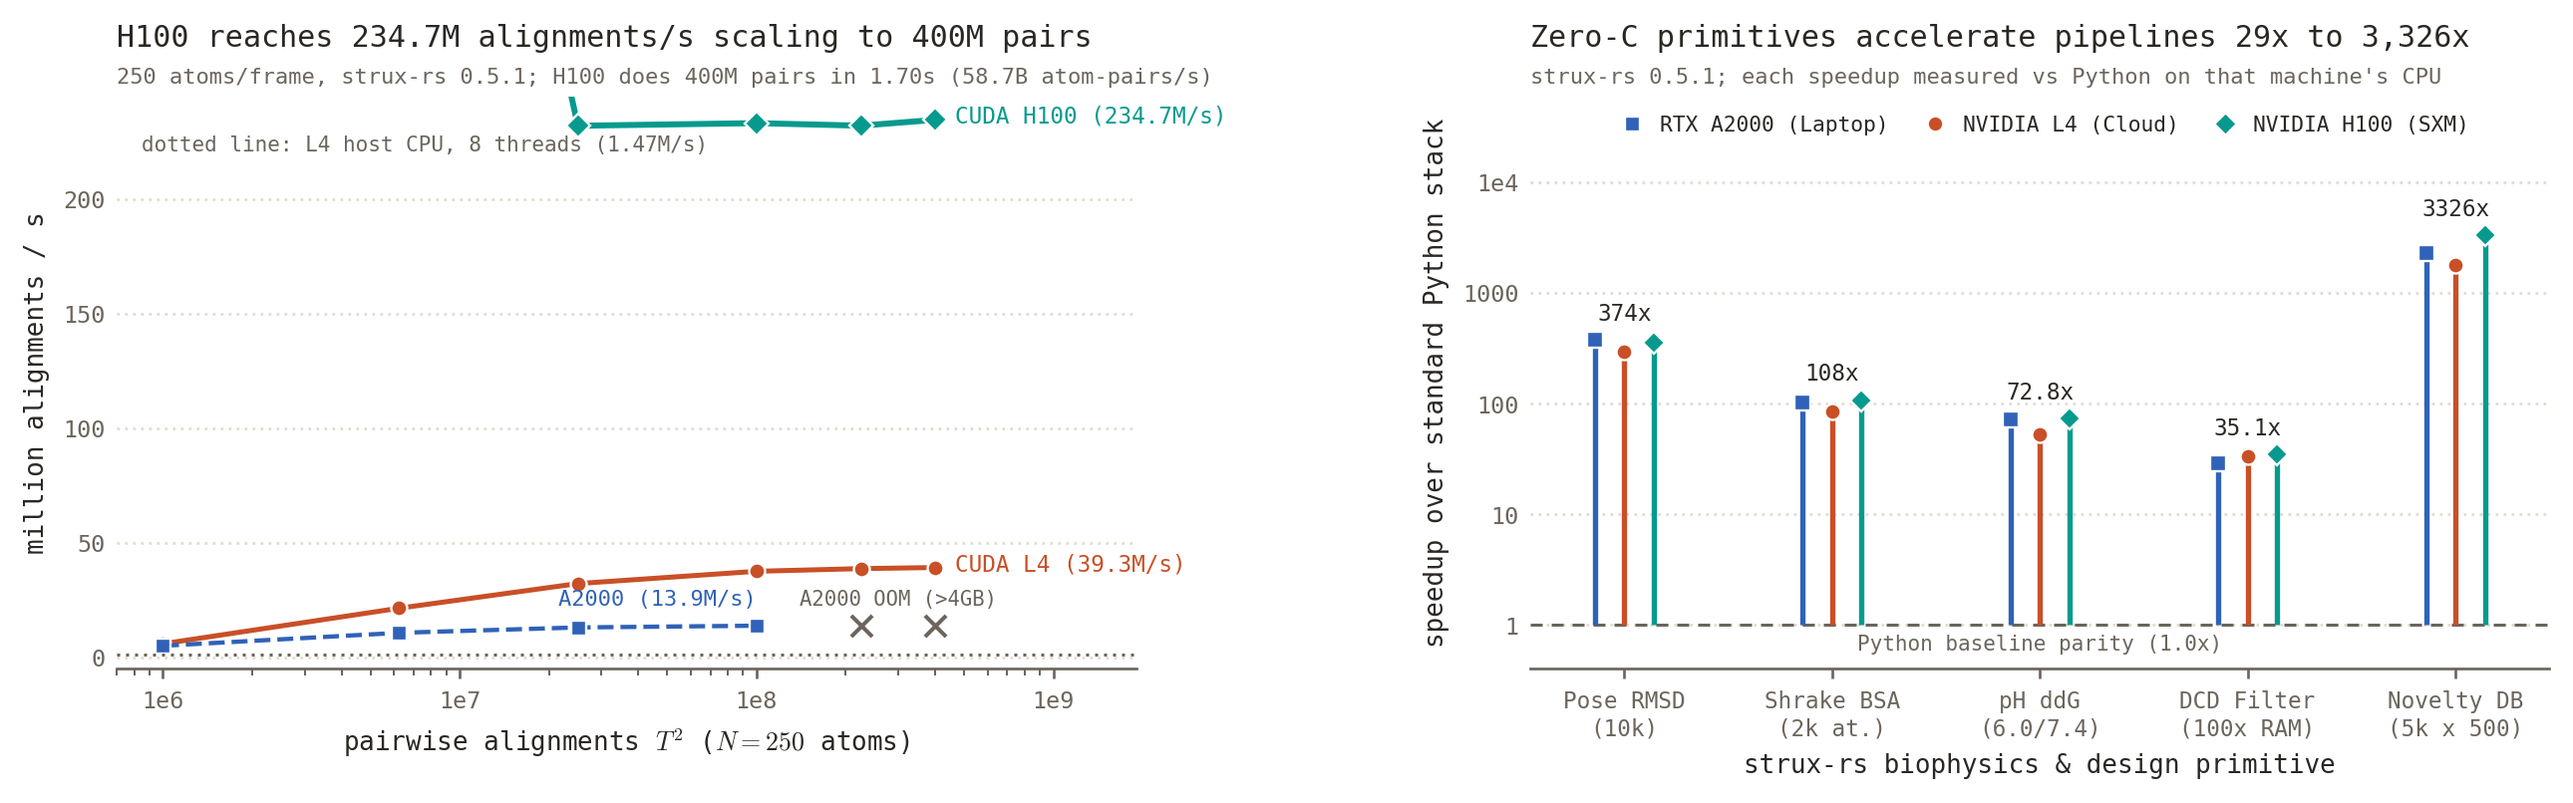
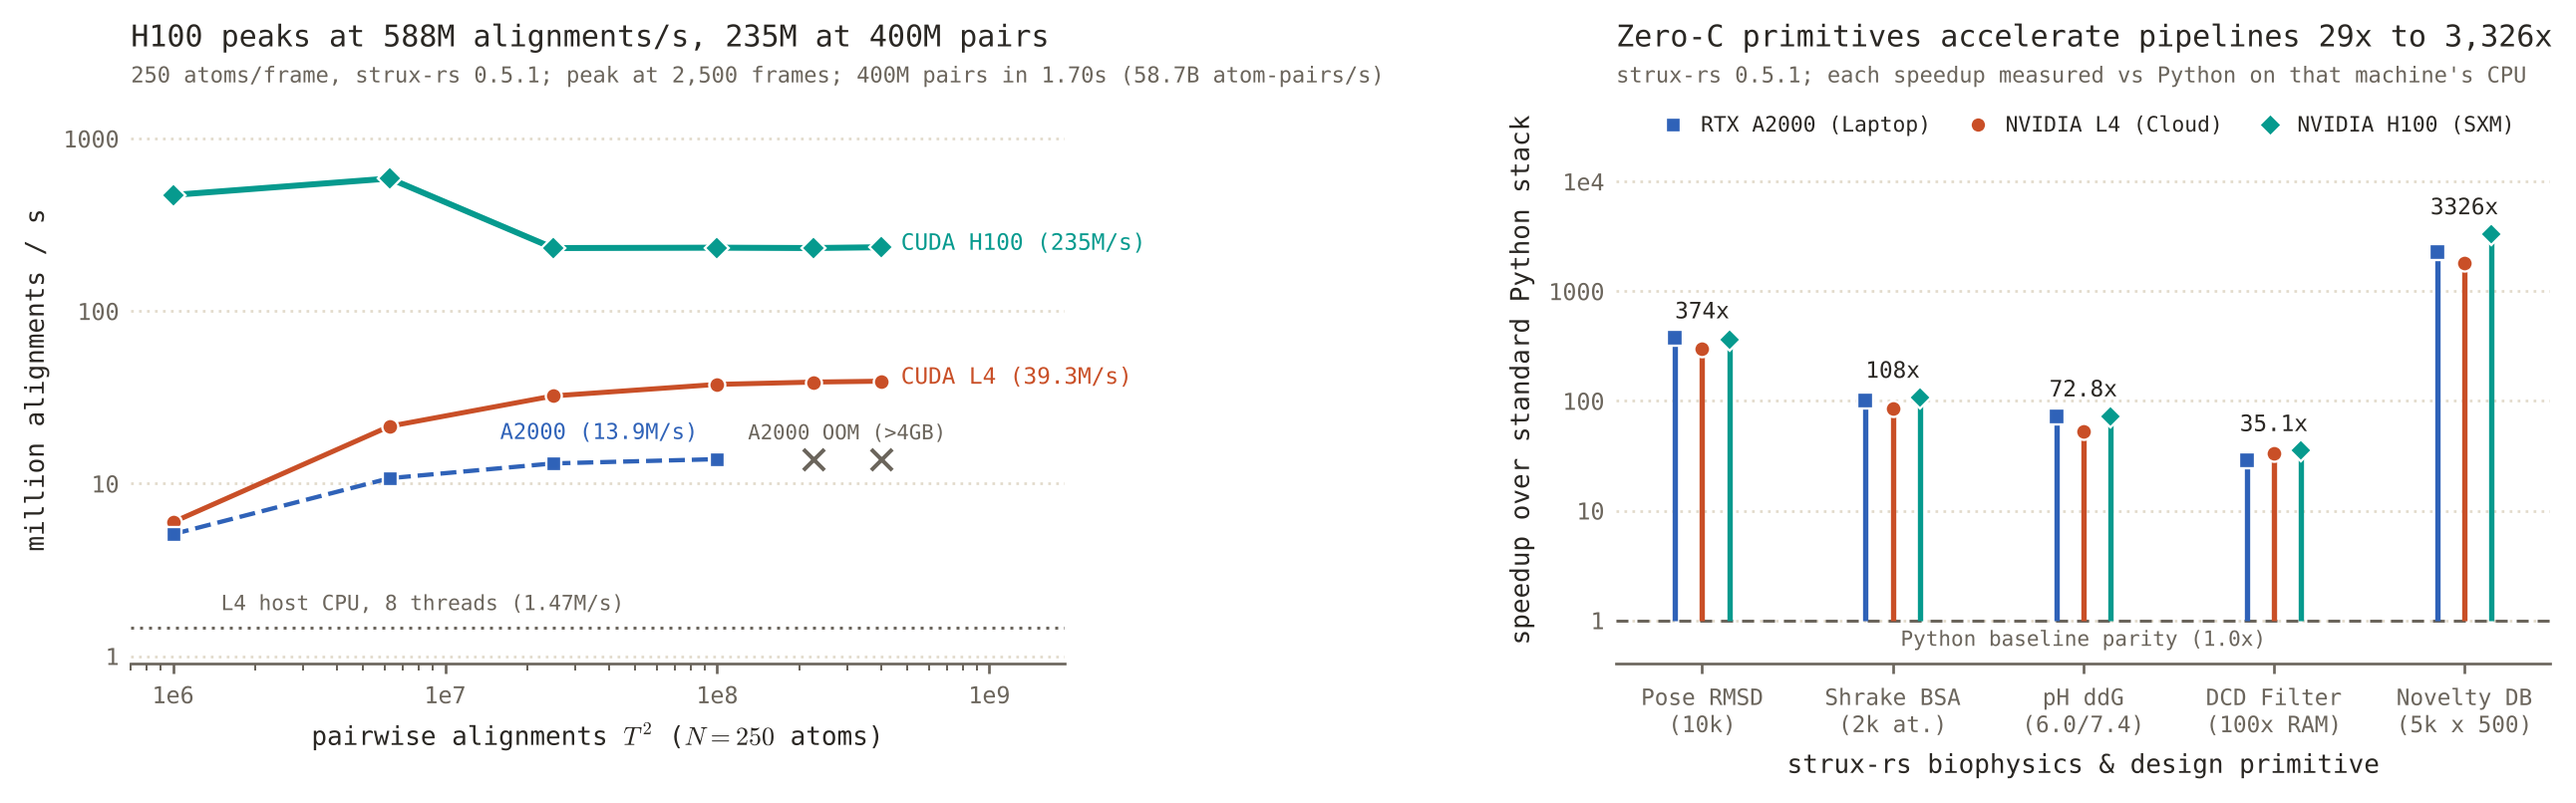
0.5.2: record build provenance, fix clipped GPU scaling plot, sync README
The cached CUDA engine cut the 1,000x1,000 H100 call from 150.3 ms to 2.1 ms, which
pushed the throughput curve past the plot's hardcoded 245 M/s ceiling and clipped it.

- plot_all_hardware.py: log y axis with limits from the data; title reports the peak
  (588 M/s) and the 400M-pair figure separately, since throughput is no longer
  monotonic; labels offset multiplicatively; subtitle shows version and commit
- run_standardized_l4_benchmarks.py: record git_commit, because __version__ comes from
  Cargo.toml and cannot distinguish a local build from the published wheel
- README: regenerate the H100 column from the results JSON, and note that it was
  measured with the cached engine while the L4 and A2000 columns predate it
- version 0.5.2 so the caching is reproducible from PyPI

diff --git a/benchmarks/plot_all_hardware.py b/benchmarks/plot_all_hardware.py
@@ -111,6 +111,12 @@ def main():
     l4_data = json.loads(l4_path.read_text(encoding="utf-8"))
     a2000_data = json.loads(a2000_path.read_text(encoding="utf-8"))
 
+    def build_label(data):
+        """Version plus commit, since __version__ alone cannot distinguish a local build."""
+        ver = data.get("strux_rs_version", "unknown")
+        commit = data.get("git_commit")
+        return f"{ver} ({commit})" if commit and commit != "unknown" else ver
+
     h100_b = {b["benchmark"]: b for b in h100_data.get("benchmarks", [])}
     l4_b = {b["benchmark"]: b for b in l4_data.get("benchmarks", [])}
     a2000_b = {b["benchmark"]: b for b in a2000_data.get("benchmarks", [])}
@@ -168,31 +174,37 @@ def main():
     ax1.set_xscale("log")
     plain_log_axis(ax1, "x")
     ax1.set_xlim(7e5, 1.9e9)
-    ax1.set_ylim(-5.0, 245.0)
+    # Log y: the three tiers plus the CPU reference span 1.5 to ~590 M alignments/s,
+    # which a linear axis collapses onto the baseline.
+    ax1.set_yscale("log")
+    plain_log_axis(ax1, "y")
+    ax1.set_ylim(0.9, max(rate_h100.max(), rate_l4.max()) * 3.0)
     ax1.set_xlabel("pairwise alignments $T^2$ ($N=250$ atoms)")
     ax1.set_ylabel("million alignments / s")
 
-    # End labels
-    end_label(ax1, pairs_full[-1], rate_h100[-1], f"CUDA H100 ({rate_h100[-1]:.1f}M/s)", dx=6, dy=1, color=JADE)
+    # End labels, offset multiplicatively because the y axis is logarithmic
+    end_label(ax1, pairs_full[-1], rate_h100[-1], f"CUDA H100 ({rate_h100[-1]:.0f}M/s)", dx=6, dy=1, color=JADE)
     end_label(ax1, pairs_full[-1], rate_l4[-1], f"CUDA L4 ({rate_l4[-1]:.1f}M/s)", dx=6, dy=1, color=RUST)
-    # A2000 label above its last point (left of it), OOM label above the x markers, CPU label bottom right
-    ax1.text(pairs_a2000[-1], rate_a2000[-1] + 7.0, f"A2000 ({rate_a2000[-1]:.1f}M/s)",
+    ax1.text(pairs_a2000[-1] * 0.85, rate_a2000[-1] * 1.22, f"A2000 ({rate_a2000[-1]:.1f}M/s)",
              fontsize=6.6, color=COBALT, ha="right", va="bottom")
     cpu_threads = l4_data["hardware"]["cpu_threads"]
-    ax1.text(8.5e5, 228.0, f"dotted line: L4 host CPU, {cpu_threads} threads ({cpu_rate:.2f}M/s)",
-             fontsize=6.3, color=INK2, ha="left", va="top")
+    ax1.text(1.5e6, cpu_rate * 1.18, f"L4 host CPU, {cpu_threads} threads ({cpu_rate:.2f}M/s)",
+             fontsize=6.3, color=INK2, ha="left", va="bottom")
 
     # OOM marker for A2000
     ax1.scatter([2.25e8, 4.0e8], [rate_a2000[-1], rate_a2000[-1]], marker="x", color=INK2, s=40, zorder=5, lw=1.2)
-    ax1.text(3.0e8, rate_a2000[-1] + 7.0, "A2000 OOM (>4GB)", fontsize=6.2, color=INK2, ha="center", va="bottom")
+    ax1.text(3.0e8, rate_a2000[-1] * 1.22, "A2000 OOM (>4GB)", fontsize=6.2, color=INK2, ha="center", va="bottom")
 
     total_pairs = pairs_full[-1]
     time_max_h100 = time_h100_sec[-1]
     atom_pairs_rate_h100 = (total_pairs * 250) / time_max_h100 / 1e9
+    peak_h100 = rate_h100.max()
+    peak_frames = int(frames_full[int(rate_h100.argmax())])
     titles(
         ax1,
-        f"H100 reaches {rate_h100[-1]:.1f}M alignments/s scaling to 400M pairs",
-        f"250 atoms/frame, strux-rs {h100_data['strux_rs_version']}; H100 does 400M pairs in {time_max_h100:.2f}s ({atom_pairs_rate_h100:.1f}B atom-pairs/s)",
+        f"H100 peaks at {peak_h100:.0f}M alignments/s, {rate_h100[-1]:.0f}M at 400M pairs",
+        f"250 atoms/frame, strux-rs {build_label(h100_data)}; peak at {peak_frames:,} frames; "
+        f"400M pairs in {time_max_h100:.2f}s ({atom_pairs_rate_h100:.1f}B atom-pairs/s)",
     )
 
     # =========================================================================
@@ -274,7 +286,7 @@ def main():
     titles(
         ax2,
         f"Zero-C primitives accelerate pipelines {min_sp:.0f}x to {max_sp:,.0f}x",
-        f"strux-rs {h100_data['strux_rs_version']}; each speedup measured vs Python on that machine's CPU",
+        f"strux-rs {build_label(h100_data)}; each speedup measured vs Python on that machine's CPU",
     )
 
     fig.tight_layout(w_pad=3.8)

diff --git a/benchmarks/run_standardized_l4_benchmarks.py b/benchmarks/run_standardized_l4_benchmarks.py
@@ -23,6 +23,25 @@ import numpy as np
 import strux_rs
 
 
+def _git_commit() -> str:
+    """Short commit of the repo this script lives in, or 'unknown' outside a checkout."""
+    try:
+        out = subprocess.run(
+            ["git", "-C", str(Path(__file__).resolve().parent), "rev-parse", "--short", "HEAD"],
+            capture_output=True, text=True, timeout=10,
+        )
+        if out.returncode != 0:
+            return "unknown"
+        commit = out.stdout.strip()
+        dirty = subprocess.run(
+            ["git", "-C", str(Path(__file__).resolve().parent), "status", "--porcelain"],
+            capture_output=True, text=True, timeout=10,
+        )
+        return commit + ("-dirty" if dirty.stdout.strip() else "")
+    except Exception:
+        return "unknown"
+
+
 def get_hardware_provenance() -> dict:
     info = {
         "hostname": socket.gethostname(),
@@ -718,6 +737,9 @@ def main():
             "timestamp_utc": time.strftime("%Y-%m-%dT%H:%M:%SZ", time.gmtime()),
             "strux_rs_version": getattr(strux_rs, "__version__", "unknown"),
             "strux_rs_file": getattr(strux_rs, "__file__", "unknown"),
+            # __version__ comes from Cargo.toml, so a local build of unreleased code reports the
+            # same string as the published wheel. Record the commit so a run can be traced to a build.
+            "git_commit": _git_commit(),
             "dataset_source": dataset_source,
             "hardware": hw,
             "benchmarks": records,

diff --git a/README.md b/README.md
@@ -6,7 +6,7 @@
 
 [![Language](https://img.shields.io/badge/Language-Rust-orange.svg)]()
 [![Python Bindings](https://img.shields.io/badge/Python-PyO3_/_Maturin-blue.svg)]()
-[![PyPI Package](https://img.shields.io/badge/PyPI-v0.5.1-blue.svg)](https://pypi.org/project/strux-rs/)
+[![PyPI Package](https://img.shields.io/badge/PyPI-v0.5.2-blue.svg)](https://pypi.org/project/strux-rs/)
 [![CUDA](https://img.shields.io/badge/CUDA-12.x_QCP-76b900.svg)]()
 [![License](https://img.shields.io/badge/License-MIT-green.svg)]()
 
@@ -152,16 +152,18 @@ Head-to-head comparison across standard computational biology packages on identi
 #### B. Cross-Hardware Scaling: H100 (80 GB) vs. Cloud L4 (24 GB) vs. Laptop RTX A2000 (4 GB)
 | Workload & System Scale | Laptop RTX A2000 (4 GB, 35W) | Cloud NVIDIA L4 (24 GB, 72W) | Data Center H100 (80 GB, 700W) | Max Throughput / Speedup |
 | :--- | :---: | :---: | :---: | :---: |
-| **1,000 × 1,000 frames** (1.0M pairs) | 196.4 ms | 167.2 ms | **150.3 ms** | 1.66 B atom-pairs/s |
-| **5,000 × 5,000 frames** (25.0M pairs) | 1,908.6 ms | 775.1 ms | **258.1 ms** | 24.22 B atom-pairs/s |
-| **10,000 × 10,000 frames** (100.0M pairs) | 7,213.3 ms (7.21s) | 2,658.7 ms (2.66s) | **583.7 ms (0.58s)** | 42.83 B atom-pairs/s (171.3M align/s) |
-| **20,000 × 20,000 frames** (400.0M pairs) | *OOM (>4 GB VRAM)* | 10,188.1 ms (10.19s) | **1,882.6 ms (1.88s)** | **53.12 B atom-pairs/s (212.5M align/s)** |
-| **5,000-Frame AMS Feedback Loop** | 10,618.3 ms | 7,938.1 ms | **4,821.7 ms** | Complete ensemble analysis in 4.82s |
-| **Target-Anchored Pose + scRMSD** (10,000 designs) | 4.28 ms | 8.24 ms | **2.85 ms** | **348.2× vs NumPy SVD** (H100 host CPU) |
-| **Shrake-Rupley BSA** (2,048 atoms, 96 points) | 1.39 ms | 9.25 ms | **1.07 ms** | **109.3× vs pure Python** |
-| **Sliding 15-mer Novelty DB** (5k queries × 500 refs) | 9,362.3 ms | 7,461.3 ms | **5,628.9 ms** | **3,449.1× vs Python** (5.6s vs ~5.4 hours) |
+| **1,000 × 1,000 frames** (1.0M pairs) | 196.4 ms | 167.2 ms | **2.1 ms** | 117.9 B atom-pairs/s (471M align/s) |
+| **5,000 × 5,000 frames** (25.0M pairs) | 1,908.6 ms | 775.1 ms | **107.7 ms** | 58.0 B atom-pairs/s |
+| **10,000 × 10,000 frames** (100.0M pairs) | 7,213.3 ms (7.21s) | 2,658.7 ms (2.66s) | **428.7 ms (0.43s)** | 58.3 B atom-pairs/s (233M align/s) |
+| **20,000 × 20,000 frames** (400.0M pairs) | *OOM (>4 GB VRAM)* | 10,188.1 ms (10.19s) | **1,704.3 ms (1.70s)** | **58.7 B atom-pairs/s (235M align/s)** |
+| **5,000-Frame AMS Feedback Loop** | 10,618.3 ms | 7,938.1 ms | **4,698.5 ms** | Complete ensemble analysis in 4.70s |
+| **Target-Anchored Pose + scRMSD** (10,000 designs) | 4.28 ms | 8.24 ms | **2.95 ms** | **357.9× vs NumPy SVD** (H100 host CPU) |
+| **Shrake-Rupley BSA** (2,048 atoms, 96 points) | 1.39 ms | 9.25 ms | **1.14 ms** | **107.6× vs pure Python** |
+| **Sliding 15-mer Novelty DB** (5k queries × 500 refs) | 9,362.3 ms | 7,461.3 ms | **5,809.1 ms** | **3,325.9× vs Python** (5.8s vs ~5.4 hours) |
 
-![Hardware Scaling Comparison](benchmarks/hardware_scaling_comparison.png?v=0.5.1b)
+The H100 column was measured after the CUDA engine became a process-wide singleton, which removes the ~150 ms driver context and PTX JIT cost that every `cuda_*` call previously paid. The L4 and RTX A2000 columns predate that change (released 0.5.1), so the small-matrix gap between the columns reflects that caching, not the hardware. Large-matrix rows are dominated by kernel and transfer time and are comparable. Engine caching ships in 0.5.2; the L4 and RTX A2000 columns will be re-measured on that release.
+
+![Hardware Scaling Comparison](benchmarks/hardware_scaling_comparison.png?v=0.5.2a)
 
 #### C. Prolonged 5-Minute Full-System Hardware Burn (`309.3s` Concurrent 16T CPU + CUDA GPU)
 Under 5+ continuous minutes of simultaneous **16-thread Rayon CPU torture (`97.5%` mean utilization)** and **100% CUDA GPU saturation**:
